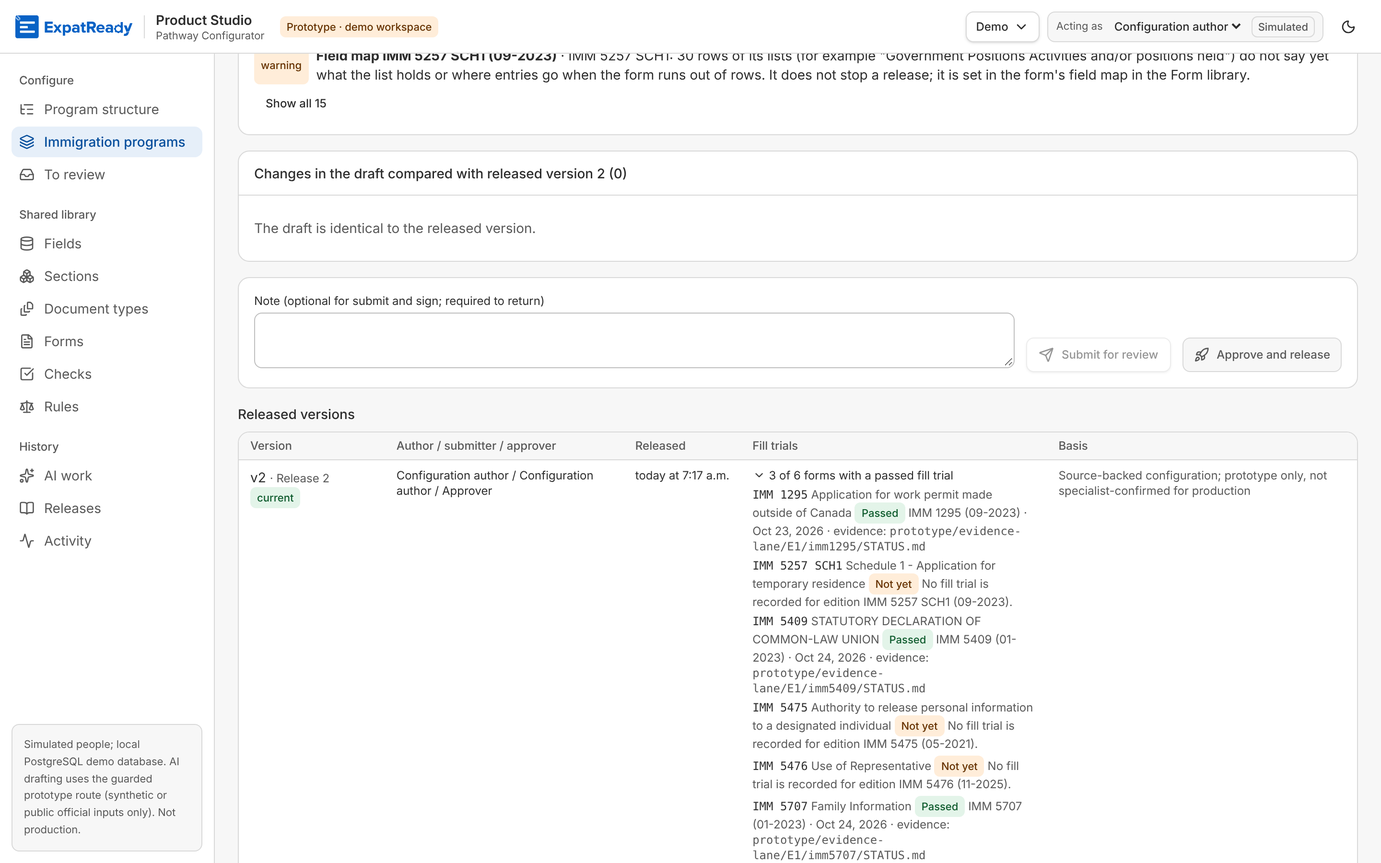
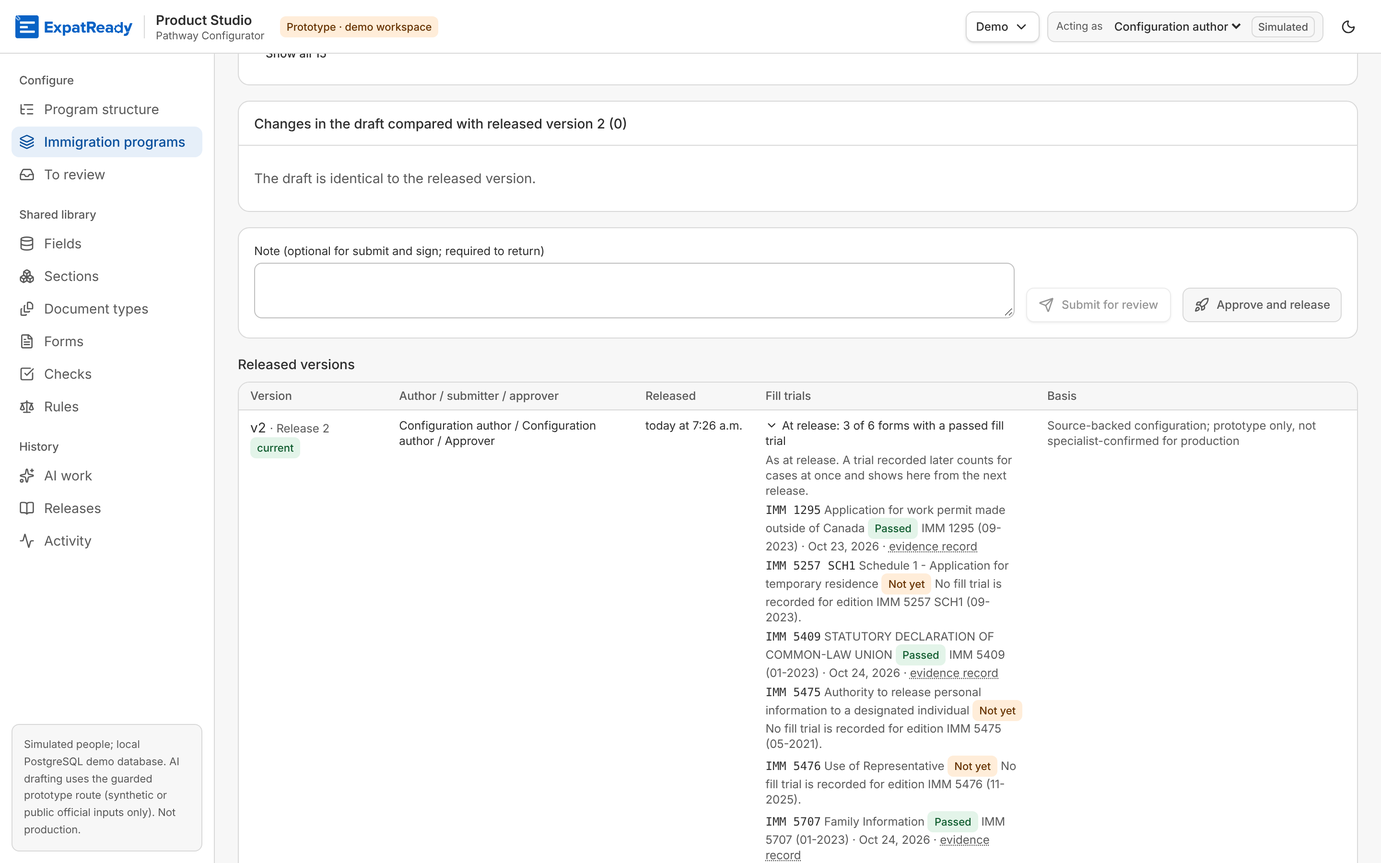
forms: BK-11 — review fixes: the engine's form lines, Online lines, words as at release
M1: the release lists the engine's form lines (engine/programs.ts isFormLine):
an old document row titled as a form is listed, a line marked Not needed is not.
m1: the evidence path is behind a tooltip, not on the line. m2: the words say
the list is as at release. m3: a line filed Online says so (no PDF fill trial
applies), never a warning Not yet. Reviewer's review and journey files added.

Claude-Session: https://claude.ai/code/session_01Ln6TiRLsdR8cXYKpYNMfSA

diff --git a/ai-workers/problem-1-pathway-setup-and-form-filling/prototype/studio/tests/check_bk11_release_fill_trials.ts b/ai-workers/problem-1-pathway-setup-and-form-filling/prototype/studio/tests/check_bk11_release_fill_trials.ts
@@ -52,15 +52,19 @@ ok("BK-11 BR-3 pass: with an older PDF edition and an online version beside it, 
 const olderInUse = { forms: [line("FORM A")], field_maps: [map("FORM A", SHA.a, entries, { form_edition: "FORM A (01-2025)" }), map("FORM A", SHA.b, entries, { form_edition: "FORM A (06-2026)" })] };
 ok("BK-11 BR-3 fail: a newer PDF edition with no trial is the one in use, so the older edition's passed trial does not count", releaseFillTrials(olderInUse, register, read)[0]?.status === "not_yet");
 
-// ─────────────── BR-4: one entry per form line a case fills, in the release's own order; a document line has none
+// ─────────────── BR-4: one entry per form line a case files (engine/programs.ts isFormLine, review M1), in the release's order
 ok("BK-11 BR-4 pass: one entry per form line, in the release's order", out.map((t) => t.form).join(",") === "FORM A,FORM B,FORM C,FORM D,FORM E,FORM N");
-ok("BK-11 BR-4 fail: a document line (a checklist or guide) is not a form a case fills, so it carries no fill trial", !of("CHECKLIST"));
+ok("BK-11 BR-4 fail: a checklist line (an old \"document\" row not titled as a form) is not filed, so it carries no fill trial", !of("CHECKLIST"));
+const kinds = releaseFillTrials({ forms: [line("OLD ROW", { form_kind: "document", title: "Offer of employment form (test words)" }), line("SKIPPED", { channel: "NOT_NEEDED" }), line("PORTAL", { channel: "ONLINE" })], field_maps: [map("OLD ROW", SHA.b), map("SKIPPED", SHA.a), map("PORTAL", SHA.a)] }, register, read);
+ok("BK-11 BR-4 pass (review M1): an old \"document\" row titled as a form is filed, so the release lists it with its trial", kinds.some((t) => t.form === "OLD ROW" && t.status === "not_yet" && t.reason === "none"), kinds);
+ok("BK-11 BR-4 fail (review M1): a line marked Not needed files nothing, so the release neither lists nor counts it", !kinds.some((t) => t.form === "SKIPPED"), kinds.map((t) => t.form));
+ok("BK-11 BR-4 pass (review m3): a line filed Online fills no PDF: it says so (filed_online), even with a PDF edition beside it", kinds.find((t) => t.form === "PORTAL")?.reason === "filed_online" && kinds.find((t) => t.form === "PORTAL")?.status === "not_yet" && kinds.find((t) => t.form === "PORTAL")?.why === FILL_TRIAL_WORDS.reason.filed_online(null));
 
 // ─────────────── BR-5: a stored release's summary: carried, or null for a release made before BK-11 (never "not yet")
 ok("BK-11 BR-5 pass: a release summary with fill_trials gives them back as stored", fillTrialsOf({ counts: {}, fill_trials: out })?.length === out.length);
 ok("BK-11 BR-5 fail: a release made before BK-11 (no fill_trials) reads null, and the screen words say not recorded, never \"Not yet\"",
   fillTrialsOf({ counts: {} }) === null && fillTrialsOf(null) === null && fillTrialCount(null) === FILL_TRIAL_WORDS.not_recorded && !/Not yet/.test(fillTrialCount(undefined)));
-ok("BK-11 BR-5 pass: the count says how many of the release's forms have a passed trial", fillTrialCount(out) === "1 of 6 forms with a passed fill trial" && fillTrialCount(out.slice(0, 1)) === "1 of 1 form with a passed fill trial", fillTrialCount(out));
+ok("BK-11 BR-5 pass (review m2): the count says it is as at release and how many of the release's forms have a passed trial", fillTrialCount(out) === "At release: 1 of 6 forms with a passed fill trial" && fillTrialCount(out.slice(0, 1)) === "At release: 1 of 1 form with a passed fill trial", fillTrialCount(out));
 
 // ─────────────── the real register: one recorded E1 edition reads "passed" through the same function
 const real = readTrials();

diff --git a/ai-workers/problem-1-pathway-setup-and-form-filling/prototype/studio/api/src/fill-trials.ts b/ai-workers/problem-1-pathway-setup-and-form-filling/prototype/studio/api/src/fill-trials.ts
@@ -10,7 +10,7 @@ import { readFileSync } from "node:fs";
 import { createHash } from "node:crypto";
 import { join } from "node:path";
 import { PROTOTYPE, STUDIO } from "./core.ts";
-import { pdfMapInUse } from "../../engine/programs.ts";
+import { isFormLine, pdfMapInUse } from "../../engine/programs.ts";
 import { FILL_TRIAL_WORDS, type FillTrialReason, type ReleaseFillTrial } from "../../contracts/release-fill-trials.ts";
 
 /** One map entry as the snapshot carries it (engine/snapshot.ts field_maps[].entries). */
@@ -65,15 +65,18 @@ export function trialFor(m: EditionMap | null | undefined, trials: TrialRecord[]
 }
 
 /** BK-11 (P-448, P-460): each form line of a release with its fill trial, frozen into the release row's summary at
- *  release (api/src/studio.ts publishRow, api/src/demo.ts). The trial is the one a case's copy is judged by (fill-case.ts
- *  trialOf): the PDF edition in use (P-32) and its field map. A document line (a checklist, a guide) is not a form a
- *  case fills, so it has none. Names no pathway and no form (P-319, P-452). */
+ *  release (api/src/studio.ts publishRow, api/src/demo.ts). The lines are the engine's form lines (engine/programs.ts
+ *  isFormLine: what a case files; review M1), so a checklist or guide and a line marked Not needed have none, and an old
+ *  "document" row titled as a form has one. The trial is the one a case's copy is judged by (fill-case.ts trialOf): the
+ *  PDF edition in use (P-32) and its field map. A line filed Online fills no PDF, so it is said so (filed_online), never
+ *  as a missing trial. Names no pathway and no form (P-319, P-452). */
 export function releaseFillTrials(snapshot: { forms: unknown[]; field_maps: unknown[] }, trials: TrialRecord[] = readTrials(), readStatus?: (f: string) => string): ReleaseFillTrial[] {
   const maps = snapshot.field_maps as EditionMap[];
-  return (snapshot.forms as { form_number: string; title?: string | null; form_kind?: string | null }[]).filter((f) => (f.form_kind ?? "data_form") !== "document").map((f) => {
+  return (snapshot.forms as { form_number: string; title?: string | null; form_kind?: string | null; channel?: string | null }[]).filter(isFormLine).map((f) => {
     const map = pdfMapInUse(maps, f.form_number);
-    const t = trialFor(map, trials, readStatus); // undefined: the default reader
     const edition = map?.form_edition ?? null;
+    if (f.channel === "ONLINE") return { form: f.form_number, title: f.title ?? null, status: "not_yet", edition: null, recorded_on: null, evidence: null, reason: "filed_online", why: FILL_TRIAL_WORDS.reason.filed_online(null) };
+    const t = trialFor(map, trials, readStatus); // undefined: the default reader
     return t.passed
       ? { form: f.form_number, title: f.title ?? null, status: "passed", edition, recorded_on: t.record?.recorded_on ?? null, evidence: t.record?.status_file ?? null, reason: null, why: null }
       : { form: f.form_number, title: f.title ?? null, status: "not_yet", edition, recorded_on: null, evidence: null, reason: t.reason ?? "none", why: FILL_TRIAL_WORDS.reason[t.reason ?? "none"](edition) };

diff --git a/ai-workers/problem-1-pathway-setup-and-form-filling/prototype/studio/contracts/release-fill-trials.ts b/ai-workers/problem-1-pathway-setup-and-form-filling/prototype/studio/contracts/release-fill-trials.ts
@@ -5,7 +5,7 @@
 // draft-against-release changes stay as they were. Names no pathway and no form (P-319, P-452). Pure.
 
 /** Why a form has no passed trial, in the release's words (api/src/fill-trials.ts TrialAnswer.reason). */
-export type FillTrialReason = "no_edition" | "other_file" | "none" | "other_map" | "not_passed";
+export type FillTrialReason = "no_edition" | "other_file" | "none" | "other_map" | "not_passed" | "filed_online";
 
 /** One form line of a release and its fill trial at the moment of release. */
 export type ReleaseFillTrial = {
@@ -26,6 +26,11 @@ export type ReleaseFillTrial = {
 export const FILL_TRIAL_WORDS = {
   passed: "Passed",
   not_yet: "Not yet",
+  /** A line filed Online fills no PDF: no fill trial applies to it (review m3). */
+  filed_online: "Filed online",
+  /** Review m2: the list is as at release; a case's lock reads the trial register as it is now. */
+  as_at_release: "As at release. A trial recorded later counts for cases at once and shows here from the next release.",
+  evidence: "evidence record",
   /** A release made before BK-11 carries no fill-trial status: never shown as "Not yet", which would claim a fact. */
   not_recorded: "Not recorded in this release: it was released before fill-trial status was carried",
   heading: "Fill trials",
@@ -35,6 +40,7 @@ export const FILL_TRIAL_WORDS = {
     none: (edition: string | null) => `No fill trial is recorded for edition ${edition ?? "in use"}.`,
     other_map: (edition: string | null) => `The fill trial of edition ${edition ?? "in use"} ran on an earlier version of its field map.`,
     not_passed: (edition: string | null) => `The fill trial of edition ${edition ?? "in use"} did not pass from the product's file.`,
+    filed_online: (_edition: string | null) => "Filed online: IRCC's portal takes the answers, so no PDF is filled and no fill trial applies.",
   } satisfies Record<FillTrialReason, (edition: string | null) => string>,
 } as const;
 
@@ -42,5 +48,5 @@ export const FILL_TRIAL_WORDS = {
 export function fillTrialCount(trials: readonly ReleaseFillTrial[] | null | undefined): string {
   if (!Array.isArray(trials)) return FILL_TRIAL_WORDS.not_recorded;
   const passed = trials.filter((t) => t.status === "passed").length;
-  return `${passed} of ${trials.length} form${trials.length === 1 ? "" : "s"} with a passed fill trial`;
+  return `At release: ${passed} of ${trials.length} form${trials.length === 1 ? "" : "s"} with a passed fill trial`;
 }

diff --git a/ai-workers/problem-1-pathway-setup-and-form-filling/prototype/studio/web/src/components/release-fill-trials.tsx b/ai-workers/problem-1-pathway-setup-and-form-filling/prototype/studio/web/src/components/release-fill-trials.tsx
@@ -9,13 +9,14 @@ export function ReleaseFillTrials({ trials }: { trials: ReleaseFillTrial[] | nul
   if (!Array.isArray(trials)) return <span className="text-xs text-text-muted" data-fill-trials="not-recorded">{FILL_TRIAL_WORDS.not_recorded}</span>;
   return (
     <FoldOut data-fill-trials summaryClassName="text-xs" summary={fillTrialCount(trials)}>
+      <p className="mt-1 text-xs text-text-muted">{FILL_TRIAL_WORDS.as_at_release}</p>
       <ul className="mt-1 space-y-1 text-xs">
         {trials.map((t) => (
           <li key={t.form} data-fill-trial={t.form} data-fill-trial-status={t.status}>
             <span className="mono font-medium">{t.form}</span>{t.title ? <span className="text-text-muted"> {t.title}</span> : null}{" "}
             {t.status === "passed"
-              ? <><Pill tone="ok">{FILL_TRIAL_WORDS.passed}</Pill> <span className="text-text-muted">{t.edition ? `${t.edition} · ` : ""}{t.recorded_on ? fmtDate(t.recorded_on) : ""}{t.evidence ? <> · evidence: <span className="mono">{t.evidence}</span></> : null}</span></>
-              : <><Pill tone="warn">{FILL_TRIAL_WORDS.not_yet}</Pill> <span className="text-text-muted">{t.why}</span></>}
+              ? <><Pill tone="ok">{FILL_TRIAL_WORDS.passed}</Pill> <span className="text-text-muted">{t.edition ? `${t.edition} · ` : ""}{t.recorded_on ? fmtDate(t.recorded_on) : ""}{t.evidence ? <> · <span className="underline decoration-dotted" title={t.evidence} data-fill-trial-evidence={t.evidence}>{FILL_TRIAL_WORDS.evidence}</span></> : null}</span></>
+              : <><Pill tone={t.reason === "filed_online" ? "neutral" : "warn"}>{t.reason === "filed_online" ? FILL_TRIAL_WORDS.filed_online : FILL_TRIAL_WORDS.not_yet}</Pill> <span className="text-text-muted">{t.why}</span></>}
           </li>
         ))}
       </ul>

diff --git a/ai-workers/problem-1-pathway-setup-and-form-filling/prototype/studio/tests/check_bk11_release_fill_trials_api.ts b/ai-workers/problem-1-pathway-setup-and-form-filling/prototype/studio/tests/check_bk11_release_fill_trials_api.ts
@@ -10,6 +10,7 @@ import { client, recorder } from "./runtime/api.ts";
 import { sourceEveryNumber } from "./fixtures/source-every-number.cjs"; // G1 (C5.4): a release needs every number sourced
 import { releaseFillTrials, readTrials } from "../api/src/fill-trials.ts";
 import { snapshotHash, type Snapshot } from "../engine/snapshot.ts";
+import { isFormLine } from "../engine/programs.ts";
 
 const PORT = Number(process.argv[2] ?? 4451), DB = process.argv[3] ?? "xr_studio_forms_bk11";
 const { call } = client(PORT, DB);
@@ -34,7 +35,7 @@ try {
   // ─────────────── Release 1: the imported reviewed release carries each form's trial
   let rel = await releasesOf(wp);
   const r1 = rel.find((x) => x.version === 1)!, s1 = stored(wp, 1);
-  const forms1 = (s1.snapshot.forms as { form_number: string; form_kind?: string }[]).filter((f) => (f.form_kind ?? "data_form") !== "document").map((f) => f.form_number);
+  const forms1 = (s1.snapshot.forms as { form_number: string; form_kind?: string; title?: string; channel?: string }[]).filter(isFormLine).map((f) => f.form_number); // review M1: the engine's form lines
   ok("BK-11 pass: Release 1 lists every form line it fills, each with its fill-trial status", Array.isArray(r1?.fill_trials) && r1.fill_trials!.map((t) => t.form).join(",") === forms1.join(",") && r1.fill_trials!.every((t) => t.status === "passed" || t.status === "not_yet"), r1?.fill_trials);
   ok("BK-11 pass: what the release carries is what the trial register and the evidence say for its own forms (frozen at release)", same(r1.fill_trials, releaseFillTrials(s1.snapshot)));
   const passed = r1.fill_trials!.filter((t) => t.status === "passed"), notYet = r1.fill_trials!.filter((t) => t.status === "not_yet");

diff --git a/ai-workers/problem-1-pathway-setup-and-form-filling/product/screens/BK-11/review.md b/ai-workers/problem-1-pathway-setup-and-form-filling/product/screens/BK-11/review.md
@@ -1,0 +1,37 @@
+# BK-11 Fill-trial status in the release: independent review
+
+PR #1537, branch `claude/inspiring-mccarthy-204gsy`, commit `48081d1d5ff56e824a83d5da8e744b46f76cc6da`, against `origin/main`. Reviewer: a fresh session that did not build it (11 Nov). Row: Bake (M3.5) Track 2 row 25 (`design/bake-plan-2026-11-10.md:50`), P-448, P-449, P-452, P-460 (branch `lead/2026-11-07-lead31`). No `concept.md`: this is a Bake row, so I judged it against the row's "Done when" and the standards.
+
+**Verdict: Block.** There is 1 Major (M1). Fix it, re-run the two BK-11 checks, and this can be approved.
+
+## What I ran (isolated copy forms_rev on :4458, live AI off, stopped afterwards)
+* `check_bk11_release_fill_trials.ts`: 17/17 passed. `check_bk11_release_fill_trials_api.ts 4458 xr_studio_forms_rev`: 8/8 passed. `check_s2_fill_trials` 14/14, `check_contract_seams` 116/116 and `check_edition_in_use` 20/20 all exit 0.
+* Data underneath. Release 2 (approve path, `studio.ts:1119` → `publishRow`) has `summary.fill_trials` with 6 entries: IMM 1295, 5409 and 5707 passed, with their date and `E1/*/STATUS.md`; 5257 SCH1, 5475 and 5476 not yet, each with a reason. The snapshot has no `fill_trial` key and `snapshotHash(snapshot) === sha256`.
+* Writers of `config_release`: `git grep configRelease.create` finds only `studio.ts:1211` (publishRow, reached from single approve :1119 and Release-page bulk :1186) and `demo.ts:198` (import). Both write the field. The remaining raw `insert into config_release` statements are in tests only (x2b, r1d); they copy existing rows or use `'{}'`, and read "Not recorded", which is correct.
+* Screen walk: 1440, 1024, 400 px and 720 px at DPR 2 (200 % zoom). Page has no sideways scroll at any width; at 400 px the table scrolls inside its own container, as the table already did before this PR. Axe WCAG 2.2 A/AA on the table, with the fold-out closed and open: 0 violations. Keyboard: Tab reaches the summary, Enter opens it, focus ring visible. No console or page errors. Screenshots: `/tmp/claude-0/-home-user-xpatready/8a9b23c8-ee6a-5e28-ae4d-532ccde19f91/scratchpad/walk/`.
+
+## The design choice (summary, not snapshot)
+I agree with it. Freezing the status in `summary` keeps the release fingerprint and `validate.ts diff()` stable; the API test proves the hash is unchanged. It also gives BK-13 (P-449 / P-460 "Study permit by data") a per-form `status / recorded_on / evidence / reason` record to read from the release itself. There is no schema column, and the code names no pathway or form: `fill-trials.ts:64-87`, the contract and the component are generic, and the P-319 test line covers them. "Not recorded in this release" for a release made before BK-11 is the honest choice: it does not claim "Not yet". The trial counted is `pdfMapInUse` → `trialFor`, the same as `fill-case.ts:162 trialOf` (P-32), which is right. The one place where it does **not** match the case is which lines count as forms (M1).
+
+## Issues
+**Major**
+* **M1. The release uses its own form-line filter instead of the engine's one rule, so a filed form can be missing from the list and a "Not needed" line counted.** `api/src/fill-trials.ts:73` keeps a line when `form_kind !== "document"`. The engine has one rule for what a filed form line is: `engine/programs.ts:164 isFormLine` (`libraryType`, `engine/form-type.ts:7`, "one rule for … every path that makes a form line and the release import"). Under that rule, a legacy `document` row titled as a form is a filed form, and a `NOT_NEEDED` line is not. **Failure scenario:** the seeded library has `IMM 5802 | document | Offer of employment form (employer form)`. `attachNow` accepts it (`form-library.ts:382`: `notFiledWords` is null for it) once its PDF is uploaded and approved. A release with it then has `pdfForms` filling IMM 5802, and lock refuses it on its unproven trial (`fill-case.ts:440`). But `summary.fill_trials` has no entry for it, and the screen says "k of n forms" without it. BK-13 and qa would read the release as complete. A line marked Not needed does the opposite: nothing is filled for it, yet it is listed and counted as "Not yet". Reproduced on synthetic lines (scratchpad `formline.mts`): `isFormLine X=true Y(NOT_NEEDED)=false`; `pdfForms` = X, Z; `releaseFillTrials` = Y, Z. **Fix:** filter with `isFormLine` from `engine/programs.ts`, and use the same rule in the API test's expected list (`tests/check_bk11_release_fill_trials_api.ts:37`). Add a pass/fail pair to the pure test: a `document` line titled "… form" is listed, a `NOT_NEEDED` line is not. Then correct the BR-4 wording at `tests/check_bk11_release_fill_trials.ts:57`.
+
+**Minor**
+* **m1. A repository path is shown on screen.** `web/src/components/release-fill-trials.tsx:17` renders `evidence: prototype/evidence-lane/E1/imm1295/STATUS.md` in the visible fold-out. EXPERIENCE §46 [M] says "no … file paths on the main path". It is only partly met, because the path sits behind a disclosure. Fix: show "evidence record" in plain words and keep the path in a `title` or the details.
+* **m2. The words do not say the status is as at release.** `contracts/release-fill-trials.ts:31` and the summary at `release-fill-trials.tsx:11` read "3 of 6 forms with a passed fill trial". A trial recorded after the release does not change this list, but lock (`fill-case.ts:440`) uses the live register. A publisher could read "Not yet" as the current state. Fix: "… at release".
+* **m3. A form filed only Online always shows "Not yet".** A line with only an ONLINE edition gets `no_edition` (`contracts/release-fill-trials.ts:33`) and the warn pill "Not yet", but no fill trial can ever apply to it. The wording is accurate; the pill implies something is still to do. Settle this once M1's rule is used, for example a neutral pill for "no PDF to fill".
+
+## D1–D20 (1–5)
+D1 4: meets the row, except M1. · D2 3: release data can omit a filed form (M1). · D3 4: one contract and one trial function, but the form-line rule is duplicated (M1). · D4 4 · D5 5: frozen at release; pre-BK-11 rows read null, not "not yet". · D6 4: evidence path and date recorded. · D7 N/A: no AI. · D8 4: on Review › Released versions. · D9 3: says why a form is not yet proven, but not where a trial gets recorded. · D10 3: m1 path, m2. · D11 4: Passed / Not yet / Not recorded are distinct. · D12 4: team Pill and FoldOut, see the screenshot. · D13 5: axe 0, keyboard, focus ring, 200 %. · D14 5: team components. · D15 5: no extra request; computed once at release. · D16 4: each rule has a pass and a fail case, but the filter test asserts the wrong rule (M1). · D17 simulated only. · D18 4: date and evidence record per passed form. · D19 4: release → BK-13 reader is in place. · D20 simulated only.
+
+## BIC-01–BIC-20
+N/A. EXPERIENCE §6 covers case screens (P-407); this is the Studio's configuration Review tab.
+
+## Graph (P-86)
+`graph.mjs` ran (exit 0). GRAPH.md has no BK-11 line yet. The new component serves one capability (fill-trial status per release form). Both BK-11 tests name it. No new route: the combination review route now returns an extra field.
+
+## Could not check
+A real screen reader. An intended user's unaided walk (D17, D20 are the founder's). M1 end to end in the app: the seeded IMM 5802 has no file, and attaching it returns 409 "No file yet". I proved M1 at function level against the engine's own `isFormLine` and `pdfForms`. Journey score: `journey-test-reviewer-2026-11-11.md`, **8/10**.
+
+**Verdict: Block.** To fix: M1 (blocking). m1–m3 should be fixed but do not block.

diff --git a/ai-workers/problem-1-pathway-setup-and-form-filling/product/screens/BK-11/journey-test-reviewer-2026-11-11.md b/ai-workers/problem-1-pathway-setup-and-form-filling/product/screens/BK-11/journey-test-reviewer-2026-11-11.md
@@ -1,0 +1,34 @@
+# BK-11 journey test: reviewer, 11 Nov 2026
+
+Commit `48081d1d5`. Isolated copy forms_rev on :4458 (stopped afterwards), suites' fixture. Live AI off. Headless Chromium plus axe-core. Screenshots: `/tmp/claude-0/-home-user-xpatready/8a9b23c8-ee6a-5e28-ae4d-532ccde19f91/scratchpad/walk/` (released-1024-open.png, released-400-open.png, released-zoom200.png) and the builder's `screenshots/01-review-released-versions-fill-trials-1440.png`.
+
+## Journeys
+1. **Main.** The configuration author (or approver) wants to know which forms in the current release are proven to fill. Steps: open the combination's Review and release tab, go to Released versions, open "3 of 6 forms with a passed fill trial". Expected: every form a case fills, each marked Passed (with edition, date and evidence) or Not yet (with why). **Held:** 6 forms are listed, 3 Passed with date and evidence record, 3 Not yet with a reason in words.
+2. **Release made by a second person.** Submit, sign the expert items, then approve as the approver. The new version carries its own list. **Held:** the API check passed this (approve gave 201, `summary.fill_trials` = `releaseFillTrials(snapshot)`).
+3. **Release made before BK-11.** Expected "Not recorded …", never "Not yet". **Held:** v1 with the key removed reads "Not recorded in this release: it was released before fill-trial status was carried".
+4. **Keyboard only, 1024 px.** **Held:** Tab reaches the summary, Enter opens it, focus ring visible.
+5. **Small screen and zoom.** 400 px: no page scroll; the table scrolls in its own container (as before this PR). 720 px at DPR 2: no page scroll.
+6. **Across the screen boundary (release → case / BK-13).** The release's list should match what a case fills. **Did not hold, in one case:** a filed form stored as a legacy `document` row titled "… form" is filled by the case but missing from the list, and a "Not needed" line is listed (review M1; reproduced on synthetic lines against `isFormLine` / `pdfForms`).
+7. **Break it.** Release fingerprint after the change: unchanged (the API check). Reload with the fold-out open: it closes, and the data is the same. Two releases of one combination: each keeps its own frozen list. Wrong role: no new action, since display is read-only and the approve route's server checks are unchanged.
+
+## Data underneath
+`config_release.summary.fill_trials`: one entry per form line, in the release's order, with a status code, edition, `recorded_on` and evidence for Passed, and a reason code plus words for Not yet. The snapshot is untouched. The approve and bulk release paths share `publishRow`, and the demo import writes the field too. No other `configRelease.create` exists in app code.
+
+## Score (0 / ½ / 1)
+| Criterion | Score | Evidence |
+|---|---|---|
+| Task completed | 1 | Journey 1, screenshot 1440 |
+| Next step obvious | ½ | "Not yet" says why, but not where a trial gets recorded |
+| Plain words | ½ | Repository path shown (`release-fill-trials.tsx:17`); "as at release" not said |
+| Feedback and state | 1 | Passed / Not yet / Not recorded are distinct pills and words |
+| Correct data | ½ | M1: a filed `document`-kind form is left out; a Not needed line is counted |
+| Error recovery | 1 | Reload is safe; a release made before BK-11 is said honestly |
+| Accessibility and screen sizes | 1 | axe 0 (closed and open), keyboard, focus ring, 400 / 1024 / 1440, 200 % |
+| Speed | 1 | No added request; computed once at release (page load 1.2–2.3 s in dev, as it was before this PR) |
+| Visual quality | 1 | Team Pill and FoldOut, aligned column |
+| Trust and sources | ½ | Evidence and date are shown; the list is not marked as frozen at release |
+
+**Score: 8/10. Passes (8 or more, no criterion at 0).** Fixes that would raise it, most valuable first: (1) use `isFormLine` for the list (correct data); (2) "at release" in the summary words (trust, plain words); (3) "evidence record" in words, with the path in the title (plain words); (4) for a form with no PDF, point to where a trial is recorded or show a neutral pill (next step).
+
+## Could not test
+A real screen reader. An intended user's unaided walk (D17 and D20 stay with the founder). M1 in the running app: the seeded IMM 5802 has no file, so attaching it is refused with "No file yet".
